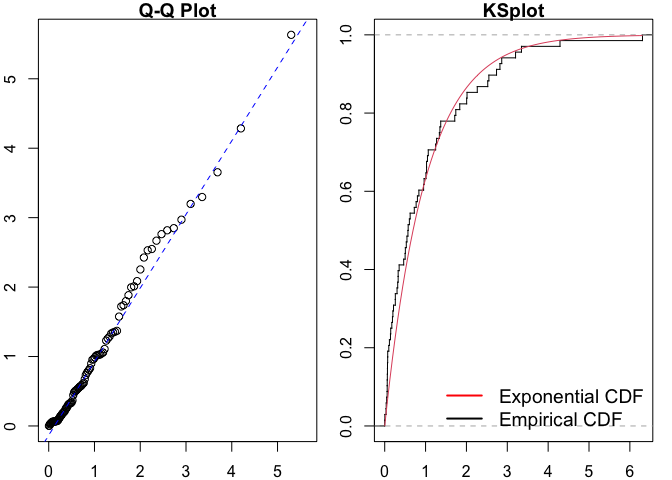
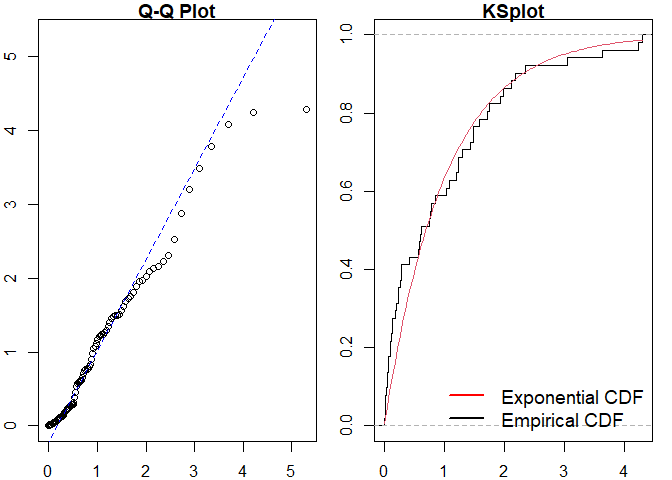
update readme

diff --git a/README.md b/README.md
@@ -8,7 +8,7 @@
 [![R build
 status](https://github.com/OwenWard/ppdiag/workflows/R-CMD-check/badge.svg)](https://github.com/OwenWard/ppdiag/actions)
 [![Lifecycle:
-stable](https://img.shields.io/badge/lifecycle-stable-green.svg)](https://www.tidyverse.org/lifecycle/#stable)
+stable](https://img.shields.io/badge/lifecycle-stable-brightgreen.svg)](https://www.tidyverse.org/lifecycle/#stable)
 [![Codecov test
 coverage](https://codecov.io/gh/OwenWard/ppdiag/branch/main/graph/badge.svg)](https://codecov.io/gh/OwenWard/ppdiag?branch=main)
 <!-- badges: end -->
@@ -30,23 +30,12 @@ These currently include:
 <!-- install.packages("ppdiag") -->
 <!-- ``` -->
 
-The in development version of this package is available from
+The current version of this package is available from
 [GitHub](https://github.com/OwenWard/ppdiag) with:
 
 ``` r
 # install.packages("remotes")
 remotes::install_github("OwenWard/ppdiag")
-#> Downloading GitHub repo OwenWard/ppdiag@HEAD
-#>          checking for file 'C:\Users\owenw\AppData\Local\Temp\Rtmpc52pHZ\remotes46205e4b136a\OwenWard-ppdiag-0094bdd/DESCRIPTION' ...  v  checking for file 'C:\Users\owenw\AppData\Local\Temp\Rtmpc52pHZ\remotes46205e4b136a\OwenWard-ppdiag-0094bdd/DESCRIPTION' (359ms)
-#>       -  preparing 'ppdiag': (2s)
-#>    checking DESCRIPTION meta-information ...     checking DESCRIPTION meta-information ...   v  checking DESCRIPTION meta-information
-#>       -  checking for LF line-endings in source and make files and shell scripts
-#>       -  checking for empty or unneeded directories
-#>       -  building 'ppdiag_0.0.0.9000.tar.gz'
-#>      
-#> 
-#> Installing package into 'C:/Users/owenw/AppData/Local/Temp/RtmpiOQlgi/temp_libpath24e81d611629'
-#> (as 'lib' is unspecified)
 ```
 
 # Example
@@ -62,63 +51,70 @@ hp_obj <- pp_hp(lambda0 = 0.2, alpha = 0.35, beta = 0.8)
 sim_hp <- pp_simulate(hp_obj, end = 200)
 #> Simulating up to endtime. To simulate n events specify n.
 sim_hp
-#> $events
-#>  [1]   5.892076  19.900304  24.308263  28.016121  30.969818  32.728937
-#>  [7]  33.304313  33.715432  34.003434  35.738146  37.549501  37.617501
-#> [13]  37.733014  40.089184  40.291582  40.483325  41.208347  42.258012
-#> [19]  43.960319  49.802850  58.855007  60.658840  62.283313  63.494050
-#> [25]  63.995357  65.302977  74.038002  74.069471  76.917322  80.654227
-#> [31]  84.999836  88.699965  89.155406  90.325116  93.722943  95.369246
-#> [37] 110.915330 111.231900 112.369431 113.042280 117.183581 121.150987
-#> [43] 121.417394 122.243563 141.524174 142.364253 145.714537 145.878264
-#> [49] 150.603899 153.779288 157.723947 158.144618 159.485545 161.888211
-#> [55] 164.762445 165.684041 167.339375 170.226574 171.062752 172.168498
-#> [61] 173.523455 176.506185 178.402998 178.460696 179.710968 180.325090
-#> [67] 180.578790 180.617571 180.749583 180.826545 181.078154 181.513147
-#> [73] 181.670738 182.295372 182.799331 187.165821 187.873588 196.421973
-#> [79] 199.914959
-#> 
-#> $lambda.max
-#> [1] 1.635611
+#>  [1]   0.9837766   3.6920200   7.9882167  15.5395325  21.1712569  21.6595975
+#>  [7]  21.8421357  22.5228279  23.3794144  24.3966796  27.4141731  28.8991643
+#> [13]  35.9518478  36.0619399  36.1467136  39.9907319  46.8833955  50.5559439
+#> [19]  50.7957311  51.0200191  57.1382822  62.4361577  70.1725965  72.9609413
+#> [25]  81.3186612  83.4826236  84.5071431  84.9571272  85.3277960  85.3470363
+#> [31]  90.4446652  92.5357618  92.8751320  97.2882254  97.7394523 100.3905880
+#> [37] 105.0453967 105.2011436 111.4538861 115.8338866 117.8613361 128.6970319
+#> [43] 143.9808107 144.8227053 159.8554555 165.1588253 165.2361385 165.9552535
+#> [49] 168.1786975 168.2281380 181.1474662
 ```
 
 We can readily evaluate the fit of a homogeneous Poisson process to this
 data.
 
 ``` r
-est_hpp <- fithpp(sim_hp$events)
+est_hpp <- fithpp(sim_hp)
 est_hpp
 #> $lambda
-#> [1] 0.395168
+#> [1] 0.2815386
 #> 
 #> $events
-#>  [1]   5.892076  19.900304  24.308263  28.016121  30.969818  32.728937
-#>  [7]  33.304313  33.715432  34.003434  35.738146  37.549501  37.617501
-#> [13]  37.733014  40.089184  40.291582  40.483325  41.208347  42.258012
-#> [19]  43.960319  49.802850  58.855007  60.658840  62.283313  63.494050
-#> [25]  63.995357  65.302977  74.038002  74.069471  76.917322  80.654227
-#> [31]  84.999836  88.699965  89.155406  90.325116  93.722943  95.369246
-#> [37] 110.915330 111.231900 112.369431 113.042280 117.183581 121.150987
-#> [43] 121.417394 122.243563 141.524174 142.364253 145.714537 145.878264
-#> [49] 150.603899 153.779288 157.723947 158.144618 159.485545 161.888211
-#> [55] 164.762445 165.684041 167.339375 170.226574 171.062752 172.168498
-#> [61] 173.523455 176.506185 178.402998 178.460696 179.710968 180.325090
-#> [67] 180.578790 180.617571 180.749583 180.826545 181.078154 181.513147
-#> [73] 181.670738 182.295372 182.799331 187.165821 187.873588 196.421973
-#> [79] 199.914959
+#>  [1]   0.9837766   3.6920200   7.9882167  15.5395325  21.1712569  21.6595975
+#>  [7]  21.8421357  22.5228279  23.3794144  24.3966796  27.4141731  28.8991643
+#> [13]  35.9518478  36.0619399  36.1467136  39.9907319  46.8833955  50.5559439
+#> [19]  50.7957311  51.0200191  57.1382822  62.4361577  70.1725965  72.9609413
+#> [25]  81.3186612  83.4826236  84.5071431  84.9571272  85.3277960  85.3470363
+#> [31]  90.4446652  92.5357618  92.8751320  97.2882254  97.7394523 100.3905880
+#> [37] 105.0453967 105.2011436 111.4538861 115.8338866 117.8613361 128.6970319
+#> [43] 143.9808107 144.8227053 159.8554555 165.1588253 165.2361385 165.9552535
+#> [49] 168.1786975 168.2281380 181.1474662
 #> 
 #> attr(,"class")
-#> [1] "pp_hpp"
+#> [1] "hpp"
 
-pp_diag(est_hpp, events = sim_hp$events)
-#> Please input the right model. Select from hp, hpp, mmpp and mmhp.
+pp_diag(est_hpp, events = sim_hp)
 ```
+
+<img src="man/figures/README-fit_hpp-1.png" width="75%" />
+
+    #> 
+    #> Raw residual: 7.105427e-15
+    #> Pearson residual: 0
+    #> 
+    #>  One-sample Kolmogorov-Smirnov test
+    #> 
+    #> data:  r
+    #> D = 0.1612, p-value = 0.1263
+    #> alternative hypothesis: two-sided
 
 ``` r
-hp_est <- fithp(events = sim_hp$events)
-pp_diag(hp_est, events = sim_hp$events)
-#> Please input the right model. Select from hp, hpp, mmpp and mmhp.
+hp_est <- fithp(events = sim_hp)
+pp_diag(hp_est, events = sim_hp)
 ```
+
+<img src="man/figures/README-fit_hp-1.png" width="75%" />
+
+    #> Raw residual: 0.005335794
+    #> Pearson residual: 0.09029657
+    #> 
+    #>  One-sample Kolmogorov-Smirnov test
+    #> 
+    #> data:  r
+    #> D = 0.083313, p-value = 0.8419
+    #> alternative hypothesis: two-sided
 
 ## MMHP Example
 
@@ -162,7 +158,6 @@ mmhp_obj
 #> attr(,"class")
 #> [1] "mmhp"
 mmhp_events <- pp_simulate(mmhp_obj, n = 50)
-#> 50 events simulated. To simulate up to endtime set given_states=TRUE and provide states.
 ```
 
 We can easily fit a homogeneous Poisson process and visualise the
@@ -171,32 +166,53 @@ goodness of fit.
 ``` r
 est_hpp <- fithpp(events = mmhp_events$events)
 pp_diag(est_hpp,mmhp_events$events)
-#> Please input the right model. Select from hp, hpp, mmpp and mmhp.
 ```
+
+<img src="man/figures/README-fit_hpp_to_mmhp-1.png" width="75%" />
+
+    #> 
+    #> Raw residual: -1
+    #> Pearson residual: -1.553353
+    #> 
+    #>  One-sample Kolmogorov-Smirnov test
+    #> 
+    #> data:  r
+    #> D = 0.15788, p-value = 0.1483
+    #> alternative hypothesis: two-sided
 
 Similarly for a Hawkes process.
 
 ``` r
 est_hp <- fithp(events = mmhp_events$events)
 pp_diag(est_hp,mmhp_events$events)
-#> Please input the right model. Select from hp, hpp, mmpp and mmhp.
 ```
 
-We can then compare to the true point process model.
+<img src="man/figures/README-fit_hp_to_mmhp-1.png" width="75%" />
 
-``` r
-pp_diag(mmhp_obj,mmhp_events$events)
-```
-
-<img src="man/figures/README-fit_mmhp-1.png" width="75%" />
-
-    #> Raw residual: 11.9952
-    #> Pearson residual: 16.41573
+    #> Raw residual: -0.5904453
+    #> Pearson residual: -1.812962
     #> 
     #>  One-sample Kolmogorov-Smirnov test
     #> 
     #> data:  r
-    #> D = 0.18486, p-value = 0.05729
+    #> D = 0.083624, p-value = 0.8468
+    #> alternative hypothesis: two-sided
+
+We can then compare to the true point process model.
+
+``` r
+pp_diag(mmhp_obj, mmhp_events$events)
+```
+
+<img src="man/figures/README-fit_mmhp-1.png" width="75%" />
+
+    #> Raw residual: 8.605693
+    #> Pearson residual: 15.08255
+    #> 
+    #>  One-sample Kolmogorov-Smirnov test
+    #> 
+    #> data:  r
+    #> D = 0.17572, p-value = 0.08043
     #> alternative hypothesis: two-sided
 
 # Getting help and contributing
